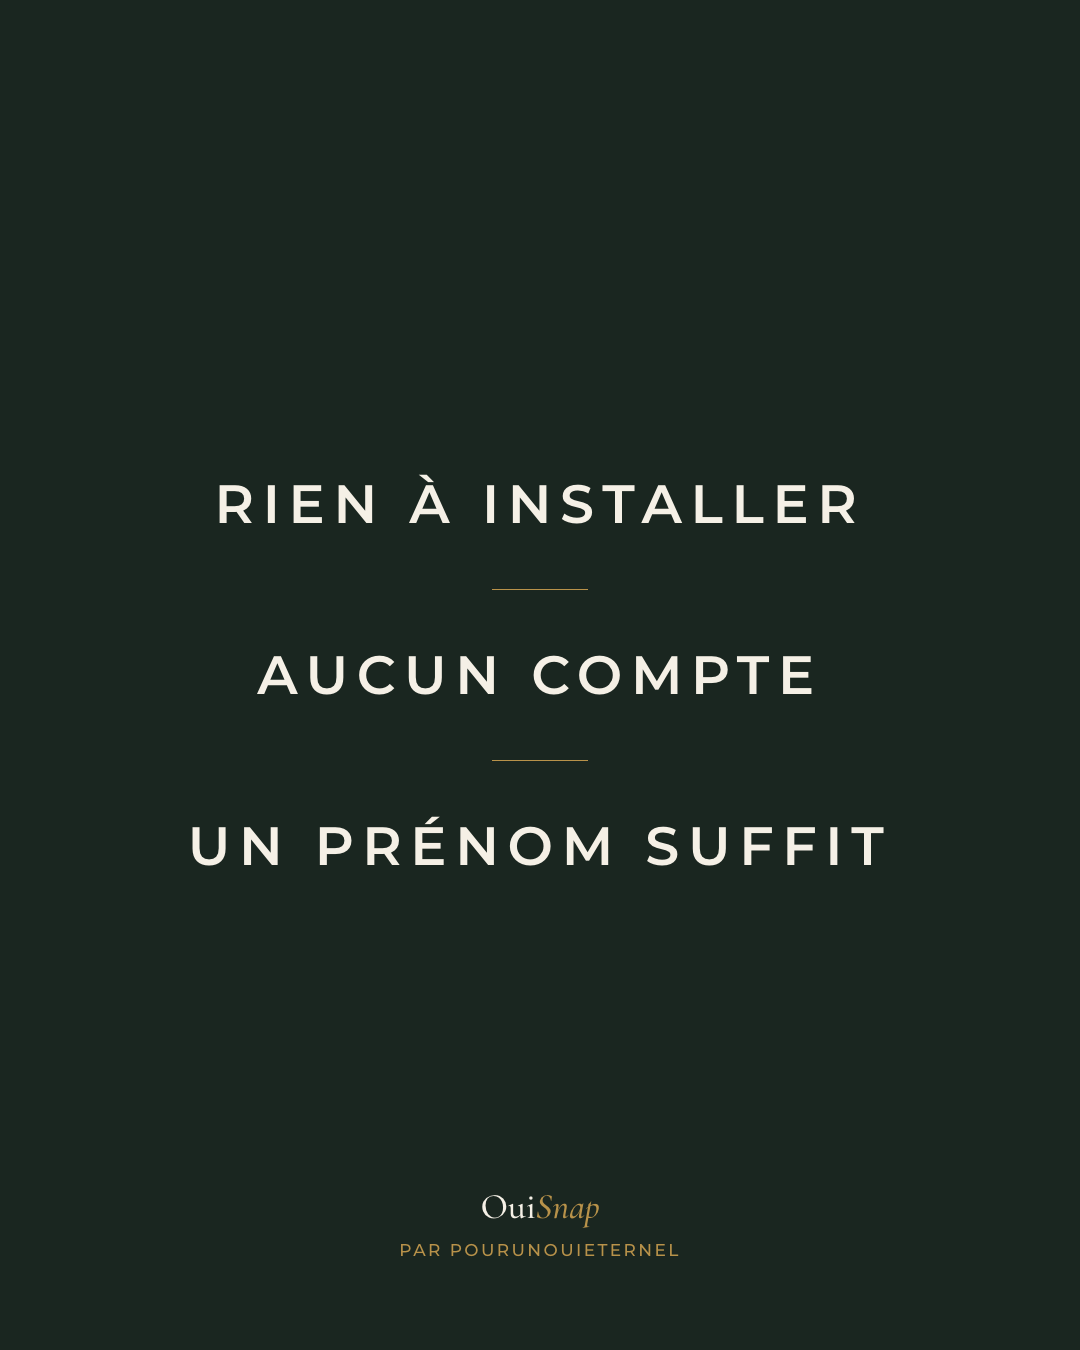
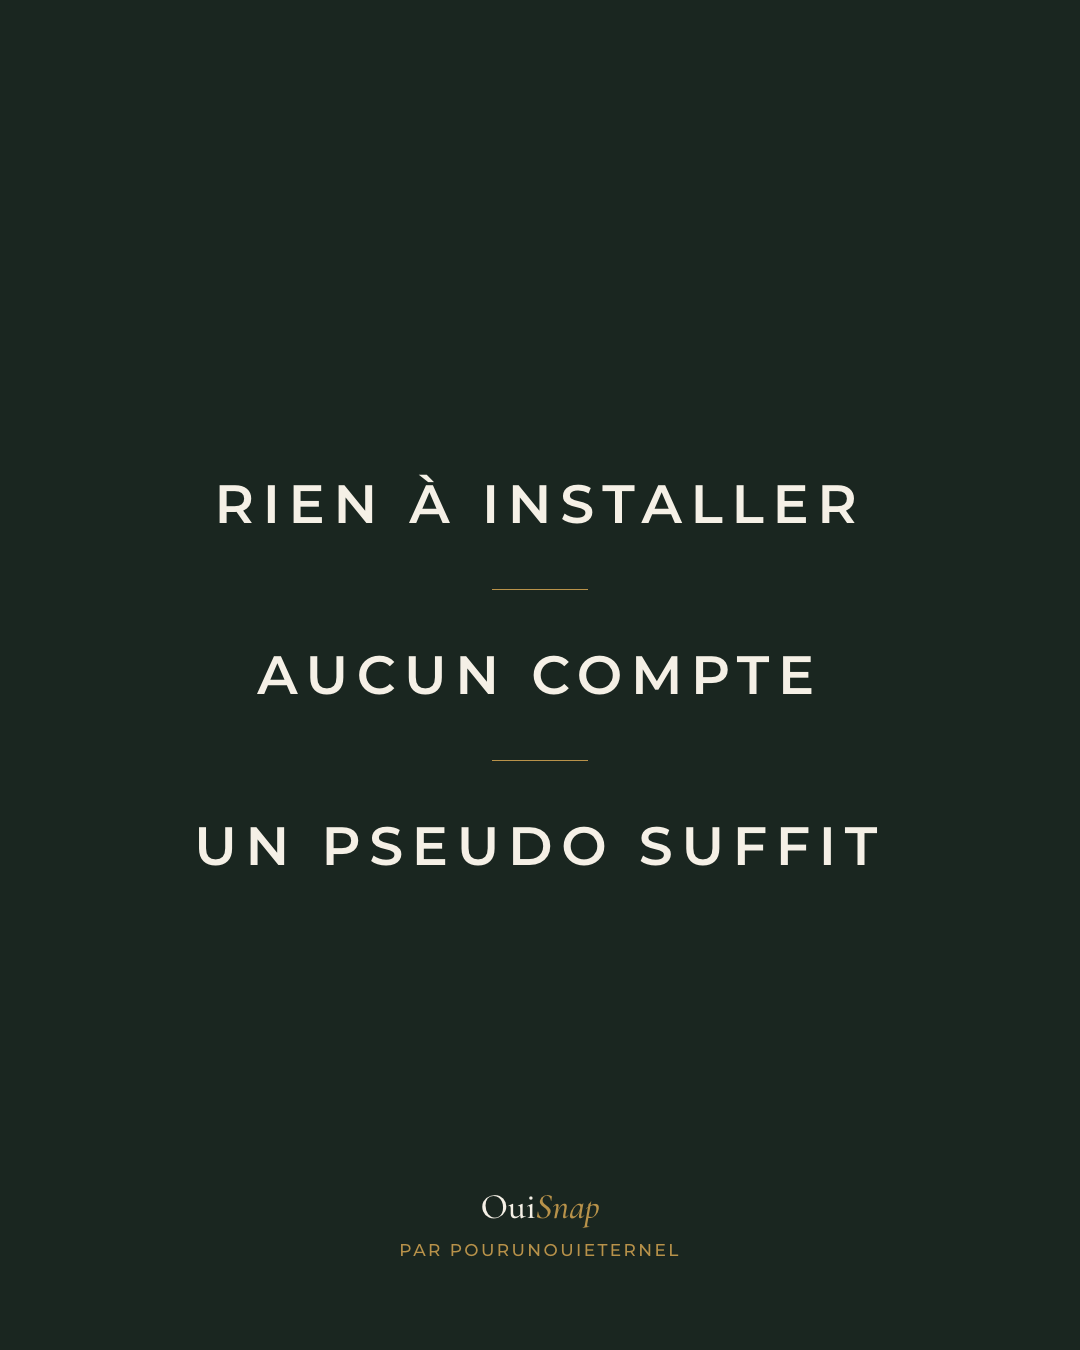
Demande un pseudo à l'invité, plus son prénom
L'invité ne donne plus « son prénom » mais « son pseudo » : Frédérique peut
signer Frédo, le frère du marié « ton frère d'amour ». Sous le champ, une
invitation le dit : « Prénom, surnom, ce que vous voulez. » Le clavier du
téléphone ne propose plus le prénom de l'état civil.

Le mot change partout où il se lisait : l'écran de l'invité, la vitrine, les
mentions légales, la politique de confidentialité — où la donnée collectée
devient un pseudo choisi, moins identifiant qu'un prénom —, le dos des cartes
de table, le flyer, les visuels du carrousel, et les trois documents.

Les textes mesurés tiennent toujours : « pseudo » est plus étroit que
« prénom ». Les quatre tests de bout en bout passent, 243 contrôles.

Changed region(s): [[0.5194, 0.5911, 0.825, 0.6533], [0.1833, 0.5911, 0.3972, 0.6533], [0.4278, 0.6222, 0.4889, 0.6533]]

diff --git a/.claude/skills/pw/scripts/e2e-types.js b/.claude/skills/pw/scripts/e2e-types.js
@@ -1,7 +1,7 @@
 // Test de bout en bout OuiSnap, joué via le MCP Playwright (browser_run_code_unsafe, paramètre filename = .claude/skills/pw/scripts/e2e-types.js).
 // Prérequis : `npm run local` (site + API PHP sur SQLite, port 8000, mot de passe admin : admin).
 // Parcours : pour chaque type (mariage, baptême, anniversaire, autre) : création par l'admin, album des organisateurs avant révélation,
-// page invité (accueil, prénom vide, 1 photo, « Mes photos »), QR plein écran, révélation, album après, album vide. Les textes non adaptés sont des « constats ».
+// page invité (accueil, pseudo vide, 1 photo, « Mes photos »), QR plein écran, révélation, album après, album vide. Les textes non adaptés sont des « constats ».
 async (page) => {
   const scenario = async (page) => {
   const BASE = 'http://localhost:8000';
@@ -20,11 +20,13 @@ async (page) => {
     p.on('pageerror', (e) => errors.push(`[${who}] ${e.message}`));
   };
   // Table de référence recopiée de src/lib/kinds.ts (KINDS) : label, album, seenBy, nameNeeded.
+  // L'invitation à choisir un pseudo (INVITE_PSEUDO) est la même pour toutes les natures.
+  const INVITE_PSEUDO = 'Prénom, surnom, ce que vous voulez.';
   const KINDS = {
-    mariage: { label: 'Mariage', album: 'Album des mariés', seenBy: 'Les mariés verront qui a pris des photos.', nameNeeded: 'Indiquez votre prénom pour que les mariés sachent qui a photographié.', org: 'Léa et Tom' },
-    bapteme: { label: 'Baptême', album: 'Album du baptême', seenBy: 'La famille verra qui a pris des photos.', nameNeeded: 'Indiquez votre prénom pour que la famille sache qui a photographié.', org: 'Sophie et Marc' },
-    anniversaire: { label: 'Anniversaire', album: "Album d'anniversaire", seenBy: 'Les organisateurs verront qui a pris des photos.', nameNeeded: 'Indiquez votre prénom pour que les organisateurs sachent qui a photographié.', org: 'Julie' },
-    autre: { label: 'Autre événement', album: "Album de l'événement", seenBy: 'Les organisateurs verront qui a pris des photos.', nameNeeded: 'Indiquez votre prénom pour que les organisateurs sachent qui a photographié.', org: 'Association Les Amis' },
+    mariage: { label: 'Mariage', album: 'Album des mariés', seenBy: 'Les mariés verront qui a pris des photos.', nameNeeded: 'Indiquez un pseudo pour que les mariés sachent qui a photographié.', org: 'Léa et Tom' },
+    bapteme: { label: 'Baptême', album: 'Album du baptême', seenBy: 'La famille verra qui a pris des photos.', nameNeeded: 'Indiquez un pseudo pour que la famille sache qui a photographié.', org: 'Sophie et Marc' },
+    anniversaire: { label: 'Anniversaire', album: "Album d'anniversaire", seenBy: 'Les organisateurs verront qui a pris des photos.', nameNeeded: 'Indiquez un pseudo pour que les organisateurs sachent qui a photographié.', org: 'Julie' },
+    autre: { label: 'Autre événement', album: "Album de l'événement", seenBy: 'Les organisateurs verront qui a pris des photos.', nameNeeded: 'Indiquez un pseudo pour que les organisateurs sachent qui a photographié.', org: 'Association Les Amis' },
   };
   const norm = (s) => String(s).replace(/\s+/g, ' ').trim();
   const snippet = (s, i) => norm(s).slice(Math.max(0, i - 40), i + 60);
@@ -128,21 +130,22 @@ async (page) => {
       noWedding(type, 'album avant', t, title, null);
       await shot(album, type, 2, 'album-avant', true);
 
-      step(`${++n}. ${type} — Invité : accueil, prénom vide, inscription, 1 photo, « Mes photos »`);
+      step(`${++n}. ${type} — Invité : accueil, pseudo vide, inscription, 1 photo, « Mes photos »`);
       await guest.goto(guestUrl);
       await guest.getByRole('heading', { name: 'Connecté !' }).waitFor();
       t = await bodyText(guest);
       has(type, 'invité accueil', t, K.album);
       has(type, 'invité accueil', t, K.seenBy);
+      has(type, 'invité accueil', t, INVITE_PSEUDO);
       noWedding(type, 'invité accueil', t, title, null);
       const docTitleG = await guest.title();
       noWedding(type, 'invité accueil (onglet)', docTitleG, title, null);
       await guest.getByRole('button', { name: 'Commencer à photographier' }).click();
       await guest.locator('#name-aide[role="alert"]').waitFor({ timeout: 5000 });
       t = await bodyText(guest);
-      has(type, 'invité prénom vide', t, K.nameNeeded);
-      noWedding(type, 'invité prénom vide', t, title, null);
-      await shot(guest, type, 3, 'invite-prenom-vide', false);
+      has(type, 'invité pseudo vide', t, K.nameNeeded);
+      noWedding(type, 'invité pseudo vide', t, title, null);
+      await shot(guest, type, 3, 'invite-pseudo-vide', false);
       await guest.locator('#name').fill('Camille');
       await guest.getByRole('button', { name: 'Commencer à photographier' }).click();
       await guest.waitForFunction(() => { const b = document.querySelector('button[aria-label="Prendre la photo"]'); return b && !b.disabled; }, null, { timeout: 10000 });

diff --git a/src/components/guest/guest-app.tsx b/src/components/guest/guest-app.tsx
@@ -5,7 +5,7 @@ import Link from "next/link";
 import { useEffect, useRef, useState, useSyncExternalStore } from "react";
 import { Logo } from "@/components/logo";
 import { api, ApiError, type EventInfo } from "@/lib/api";
-import { kindOf } from "@/lib/kinds";
+import { INVITE_PSEUDO, kindOf } from "@/lib/kinds";
 import { countStored } from "@/lib/photo-store";
 import { uploadQueue, type QueueSnapshot } from "@/lib/upload-queue";
 import { useWakeLock } from "@/lib/wake-lock";
@@ -260,7 +260,7 @@ export function GuestApp() {
     setNameError(null);
     try {
       const result = await api<JoinResult>("join", { code, name, email });
-      if (!result.token) throw new ApiError("name", "Ce prénom n'est pas valide.", 422);
+      if (!result.token) throw new ApiError("name", "Ce pseudo n'est pas valide.", 422);
       saveToken(code, result.token);
       uploadQueue.setToken(result.token);
       // La limite renvoyée tient compte du bonus accordé pour l'e-mail.
@@ -411,18 +411,19 @@ export function GuestApp() {
           <h1 className="font-serif text-5xl font-semibold leading-[1.1]">Connecté !</h1>
           <p className="libelle text-or-fonce">{kindOf(event.kind).album}</p>
           <p className="font-serif text-2xl italic">{event.title}</p>
+          <p className="text-sm text-sapin-700">{kindOf(event.kind).seenBy}</p>
         </div>
 
         <form onSubmit={join} className="flex w-full max-w-sm flex-col gap-2">
           <label htmlFor="name" className="libelle text-sapin-700">
-            Votre prénom
+            Votre pseudo
           </label>
           <input
             id="name"
             name="name"
             type="text"
             maxLength={40}
-            autoComplete="given-name"
+            autoComplete="nickname"
             aria-invalid={Boolean(nameError)}
             aria-describedby="name-aide"
             className="h-13 rounded-full border border-sapin-700/40 bg-white/60 px-6 text-base text-sapin-900 focus:border-sapin-900 focus:outline-none"
@@ -432,7 +433,7 @@ export function GuestApp() {
             role={nameError ? "alert" : undefined}
             className={`text-sm ${nameError ? "text-[#a3312c]" : "text-sapin-700"}`}
           >
-            {nameError ?? kindOf(event.kind).seenBy}
+            {nameError ?? INVITE_PSEUDO}
           </p>
           <label htmlFor="email" className="libelle mt-3 text-sapin-700">
             Votre e-mail (facultatif)

diff --git a/src/app/confidentialite/page.tsx b/src/app/confidentialite/page.tsx
@@ -22,7 +22,9 @@ export default function Confidentialite() {
         </p>
         <ul>
           <li>
-            Votre prénom, pour que les organisateurs sachent qui a pris quelles photos.
+            Le pseudo que vous choisissez, pour que les organisateurs sachent qui a pris quelles
+            photos. Vous êtes libre de son contenu : un prénom, un surnom, ce que vous voulez. Rien
+            ne vous oblige à donner votre véritable identité, et nous ne la vérifions pas.
           </li>
           <li>
             Les photos que vous envoyez, avec leur date d&apos;envoi, pour constituer l&apos;album
@@ -57,7 +59,7 @@ export default function Confidentialite() {
       <Section titre="Bases légales">
         <ul>
           <li>
-            Prénom et photos des invités : intérêt légitime, celui de constituer l&apos;album de
+            Pseudo et photos des invités : intérêt légitime, celui de constituer l&apos;album de
             l&apos;événement à la demande de ses organisateurs.
           </li>
           <li>Adresse e-mail des invités : votre consentement, que vous pouvez retirer à tout moment.</li>
@@ -70,8 +72,8 @@ export default function Confidentialite() {
         <ul>
           <li>
             Les organisateurs de l&apos;événement : pendant l&apos;événement, ils voient seulement
-            les prénoms des invités et le nombre de photos envoyées ; après la révélation de
-            l&apos;album, ils voient les photos et le prénom de leur auteur.
+            les pseudos des invités et le nombre de photos envoyées ; après la révélation de
+            l&apos;album, ils voient les photos et le pseudo de leur auteur.
           </li>
           <li>
             {EDITEUR.nom}, en tant qu&apos;administrateur du service, qui peut consulter et retirer
@@ -89,7 +91,7 @@ export default function Confidentialite() {
       <Section titre="Durées de conservation">
         <ul>
           <li>
-            Photos, prénoms et adresses e-mail liés à un événement : jusqu&apos;à la suppression de
+            Photos, pseudos et adresses e-mail liés à un événement : jusqu&apos;à la suppression de
             l&apos;album. Elle est automatique six mois après sa date de clôture, les organisateurs
             étant prévenus par e-mail trente jours avant ; elle peut être retardée de quelques jours
             pour respecter ce préavis.

diff --git a/src/lib/kinds.ts b/src/lib/kinds.ts
@@ -1,28 +1,31 @@
 // Natures d'événement et textes qui en dépendent, côté invités comme côté organisateurs.
+// L'invité choisit un pseudo, pas son état civil : INVITE_PSEUDO l'y invite, nameNeeded le réclame.
+// Cette invitation ne dépend pas de la nature de l'événement, contrairement à seenBy et nameNeeded.
+export const INVITE_PSEUDO = "Prénom, surnom, ce que vous voulez.";
 export const KINDS = {
   mariage: {
     label: "Mariage",
     album: "Album des mariés",
     seenBy: "Les mariés verront qui a pris des photos.",
-    nameNeeded: "Indiquez votre prénom pour que les mariés sachent qui a photographié.",
+    nameNeeded: "Indiquez un pseudo pour que les mariés sachent qui a photographié.",
   },
   bapteme: {
     label: "Baptême",
     album: "Album du baptême",
     seenBy: "La famille verra qui a pris des photos.",
-    nameNeeded: "Indiquez votre prénom pour que la famille sache qui a photographié.",
+    nameNeeded: "Indiquez un pseudo pour que la famille sache qui a photographié.",
   },
   anniversaire: {
     label: "Anniversaire",
     album: "Album d'anniversaire",
     seenBy: "Les organisateurs verront qui a pris des photos.",
-    nameNeeded: "Indiquez votre prénom pour que les organisateurs sachent qui a photographié.",
+    nameNeeded: "Indiquez un pseudo pour que les organisateurs sachent qui a photographié.",
   },
   autre: {
     label: "Autre événement",
     album: "Album de l'événement",
     seenBy: "Les organisateurs verront qui a pris des photos.",
-    nameNeeded: "Indiquez votre prénom pour que les organisateurs sachent qui a photographié.",
+    nameNeeded: "Indiquez un pseudo pour que les organisateurs sachent qui a photographié.",
   },
 } as const;
 

diff --git a/src/lib/table-card.ts b/src/lib/table-card.ts
@@ -273,13 +273,13 @@ const SLOGAN = ["La fête,", "vue par vous."];
 // sens inchangé : chaque étape tient ainsi sur deux lignes au corps 40, le plancher d'une consigne.
 const ETAPES = [
   "Ouvrez l’appareil photo de votre téléphone, visez le code au recto.",
-  "Touchez le lien qui s’affiche à l’écran, puis donnez votre prénom.",
+  "Touchez le lien qui s’affiche à l’écran, puis choisissez un pseudo.",
   "Photographiez la fête : vos photos rejoignent l’album.",
 ];
 
 // Posée juste sous la troisième étape, là où naît le doute. Points médians : elle se lit en trois
 // coups d'œil au lieu d'une phrase.
-const REASSURANCE = "Rien à installer · Aucun compte · Un prénom suffit";
+const REASSURANCE = "Rien à installer · Aucun compte · Un pseudo suffit";
 
 // La seule phrase de la carte qui crée une urgence, et elle arrive après l'explication, jamais avant.
 const FINALE = ["Ce que vous ne photographiez pas,", "personne ne le verra."];

diff --git a/src/lib/upload-queue.ts b/src/lib/upload-queue.ts
@@ -27,7 +27,7 @@ export type QueueEvents = {
   onLimit: (dropped: number) => void; // limite atteinte : photos retirées de la file
   onRevealed: () => void; // le serveur annonce un album dévoilé : plus de nouvelles photos
   onExpired: (lost: number) => void; // album clôturé : les photos en attente sont perdues
-  onSessionLost: () => void; // l'invité n'est plus reconnu : il doit redonner son prénom
+  onSessionLost: () => void; // l'invité n'est plus reconnu : il doit redonner son pseudo
   onGone: (message: string) => void; // l'événement n'existe plus
 };
 

diff --git a/reseaux/vue-4.html b/reseaux/vue-4.html
@@ -16,7 +16,7 @@
   <h1 class="titre">En trois gestes,<br><em>et c’est tout.</em></h1>
   <div class="etapes">
     <div class="etape"><span class="n">1</span><p>Ils ouvrent l’appareil photo<br>et visent le code</p></div>
-    <div class="etape"><span class="n">2</span><p>Ils touchent le lien<br>et donnent leur prénom</p></div>
+    <div class="etape"><span class="n">2</span><p>Ils touchent le lien<br>et choisissent un pseudo</p></div>
     <div class="etape"><span class="n">3</span><p>Ils photographient la fête</p></div>
   </div>
   <div class="filet"></div>

diff --git a/src/app/page.tsx b/src/app/page.tsx
@@ -141,7 +141,7 @@ export default function Home() {
                   </div>
                   <p className="leading-relaxed text-brume">
                     Une carte posée sur chaque table. L&apos;invité la vise avec son téléphone,
-                    donne son prénom, et il peut photographier.
+                    choisit un pseudo, et il peut photographier.
                   </p>
                 </div>
                 <Image

diff --git a/src/app/mentions-legales/page.tsx b/src/app/mentions-legales/page.tsx
@@ -77,7 +77,7 @@ export default function MentionsLegales() {
 
       <Section titre="Données personnelles">
         <p>
-          Le traitement des données (prénoms, adresses e-mail, photos) est détaillé dans la{" "}
+          Le traitement des données (pseudos, adresses e-mail, photos) est détaillé dans la{" "}
           <Link href="/confidentialite/">politique de confidentialité</Link>.
         </p>
       </Section>

diff --git a/reseaux/vue-2.html b/reseaux/vue-2.html
@@ -14,7 +14,7 @@
     <div class="sep"></div>
     <span>AUCUN COMPTE</span>
     <div class="sep"></div>
-    <span>UN PRÉNOM SUFFIT</span>
+    <span>UN PSEUDO SUFFIT</span>
   </div>
   <div class="pied">
     <span class="logo">Oui<i>Snap</i></span>

diff --git a/public/api/album-zip.php b/public/api/album-zip.php
@@ -17,7 +17,7 @@ $stmt = db()->prepare(
 );
 $stmt->execute([$event['id']]);
 
-// Un dossier par invité. Deux invités au même prénom reçoivent « Camille » et « Camille-2 ».
+// Un dossier par invité, nommé d'après son pseudo. Deux pseudos identiques donnent « Camille » et « Camille-2 ».
 // Dans chaque dossier, les photos sont numérotées dans l'ordre de prise de vue.
 $folders = [];
 $numbers = [];

diff --git a/public/api/join.php b/public/api/join.php
@@ -38,7 +38,7 @@ if (is_token($token)) {
     }
 }
 
-// Prénom nettoyé : les mariés verront qui a posté, et combien.
+// Pseudo nettoyé : les mariés verront qui a posté, et combien.
 $name = preg_replace('/[\x00-\x1F\x7F]+/u', '', (string) ($_POST['name'] ?? '')) ?? '';
 $name = mb_substr(trim(preg_replace('/\s+/u', ' ', $name) ?? ''), 0, 40);
 if ($name === '') {
